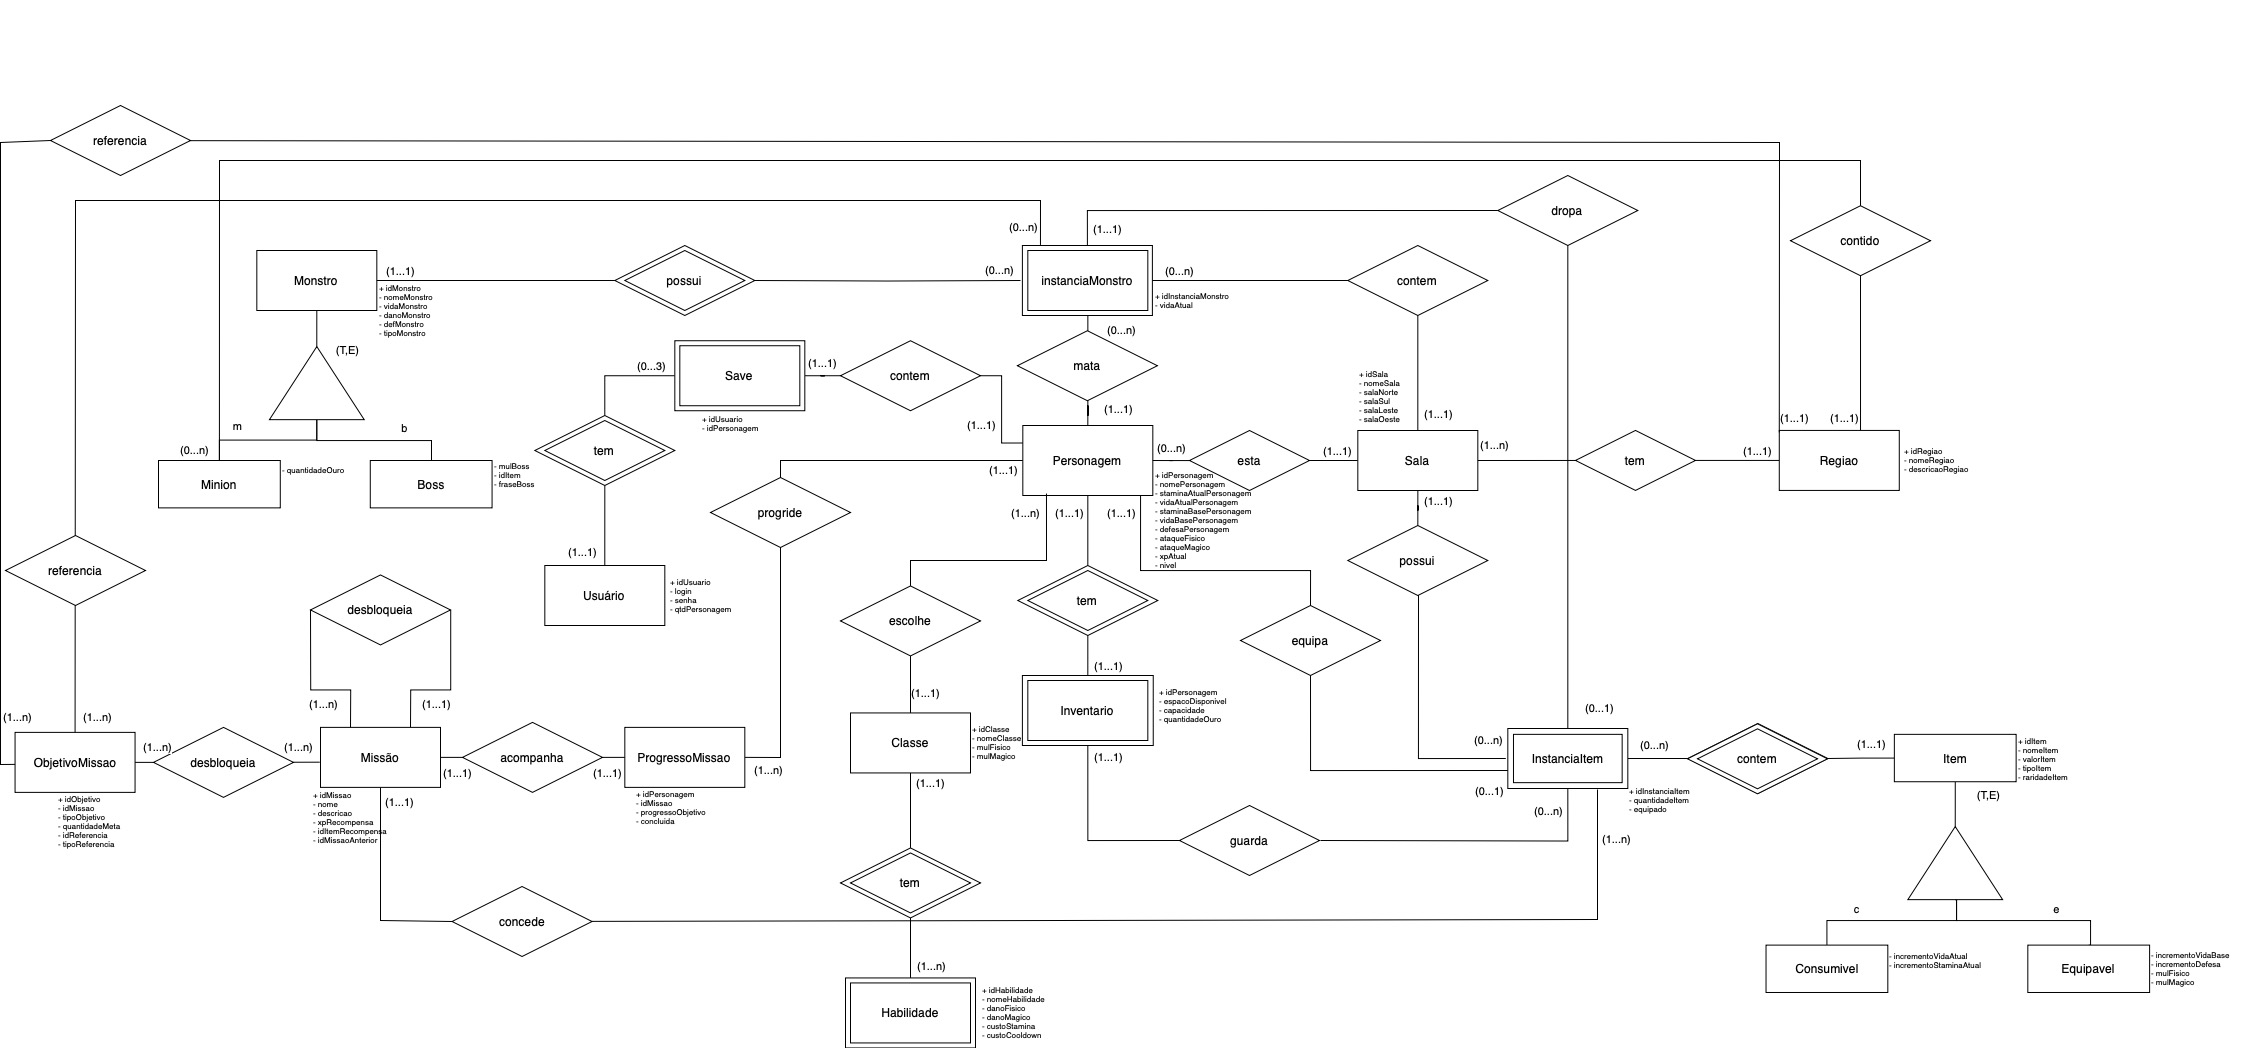
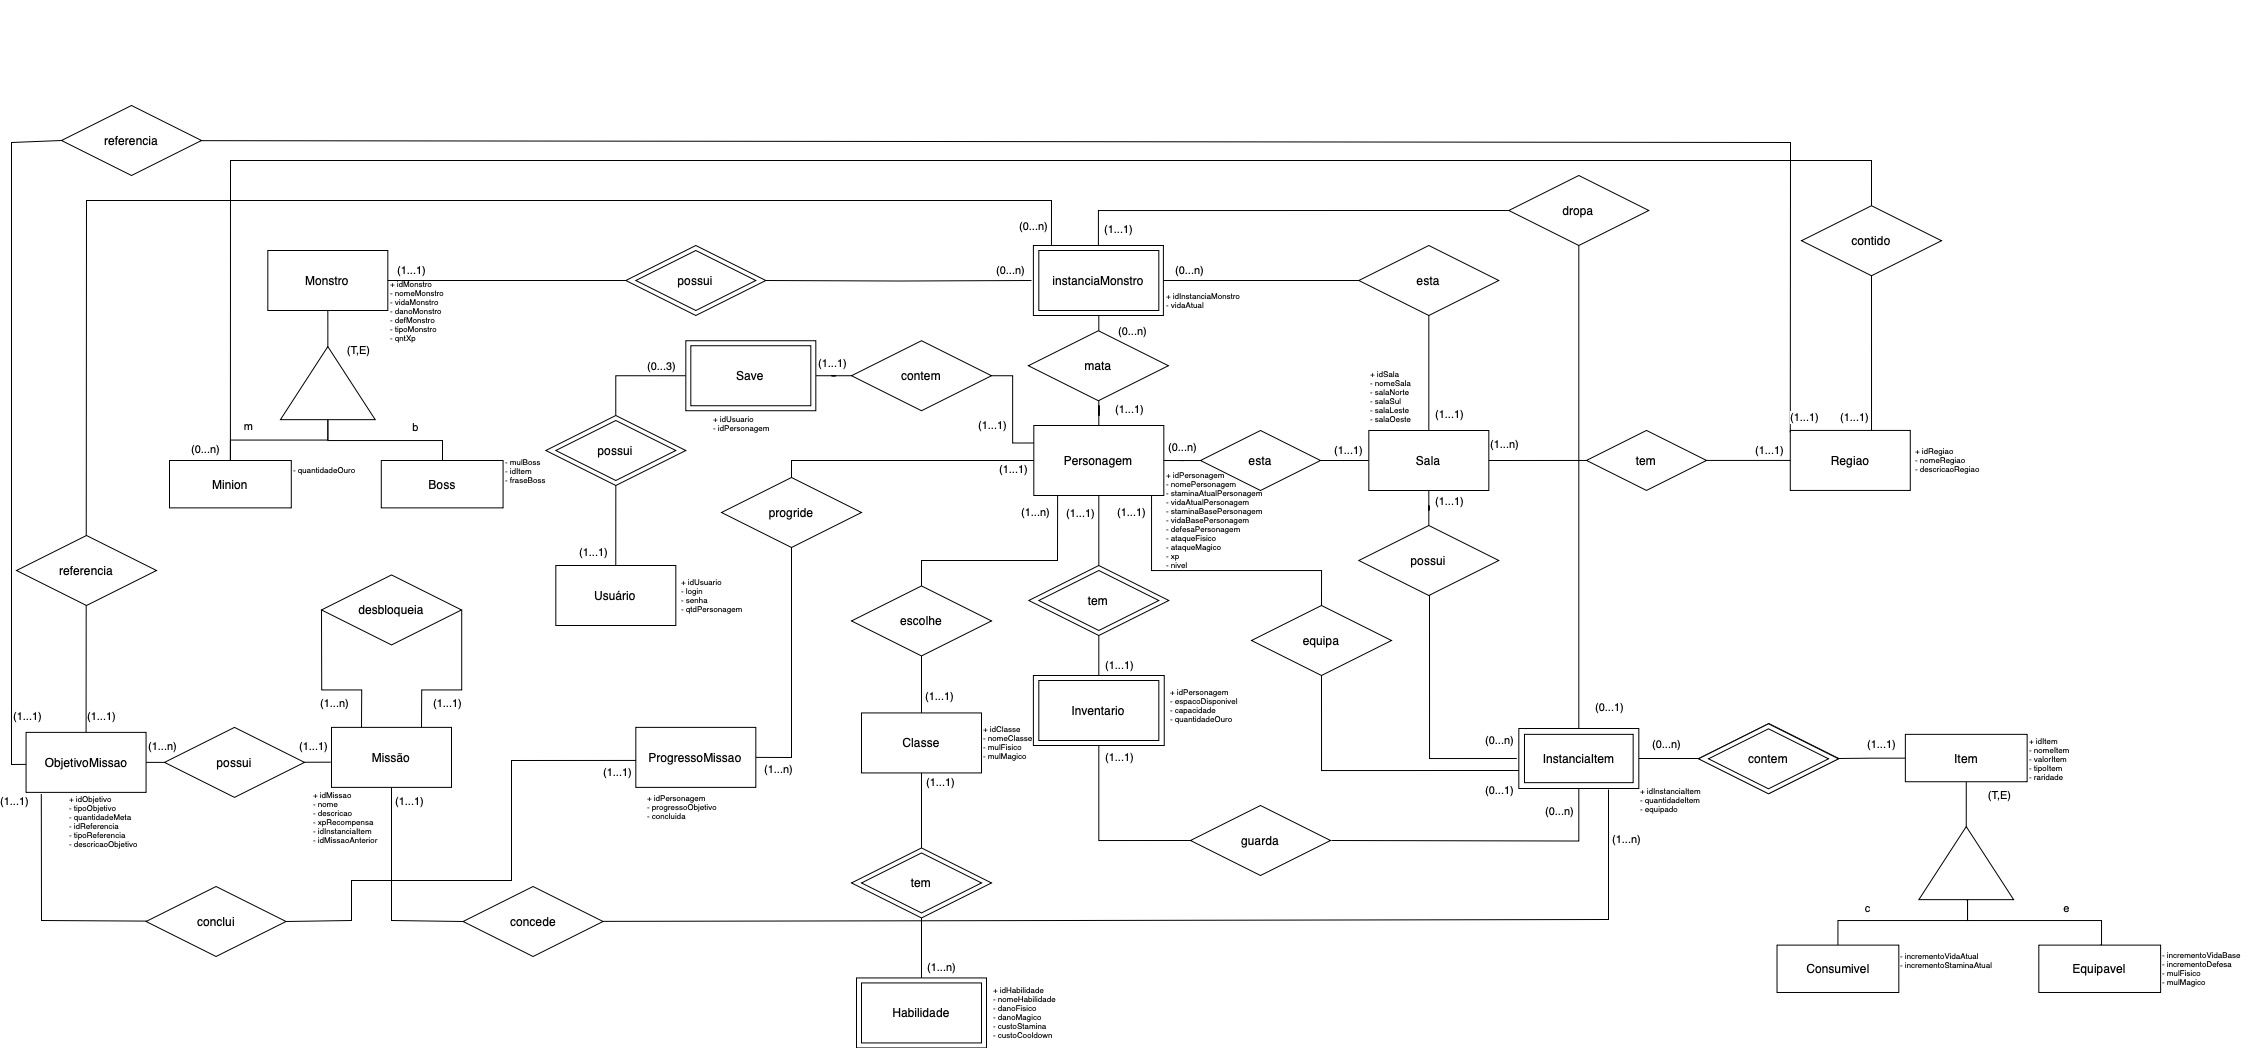
Agora sim

diff --git a/Modulo_3/ME-R(Modelo_Entidade_Relacionamento)_v3.md b/Modulo_3/ME-R(Modelo_Entidade_Relacionamento)_v3.md
@@ -14,7 +14,7 @@
 * Inventario
 * ItemPersonagem
 * Sala
-* ItemSala
+* Regiao
 * Item
 * Consumivel
 * Equipavel
@@ -24,25 +24,25 @@
 
 ## Atributos
 
-- **Usuario:** idUsuario, login, senha, qtdPersonagem  
-- **Monstro:** idMonstro, tipoMonstro  
+- **Usuario:** idUsuario, login, senha, qtdPersonagem 
+- **Monstro:** idMonstro, nomeMonstro, vidaMonstro, danoMonstro, defMonstro, tipoMonstro, qntXp
 - **InstanciaMonstro:** idInstanciaMonstro, idMonstro, vidaAtual, idSala  
-- **Minion:** idMonstro, nomeMonstro, vidaMonstro, danoMonstro, defMonstro, quantidadeOuro  
-- **Boss:** idMonstro, nomeMonstro, vidaMonstro, danoMonstro, defMonstro, mulBoss, idItem  
+- **Minion:** idMonstro, nomeMonstro, vidaMonstro, danoMonstro, defMonstro, quantidadeOuro, qntXp  
+- **Boss:** idMonstro, nomeMonstro, vidaMonstro, danoMonstro, defMonstro, mulBoss, idItem, fraseBoss, qntXp  
 - **Save:** idUsuario, idPersonagem  
 - **Classe:** idClasse, nomeClasse, mulFisico, mulMagico  
-- **Personagem:** idPersonagem, nomePersonagem, staminaAtualPersonagem, vidaAtualPersonagem, staminaBasePersonagem, vidaBasePersonagem, defensePersonagem, ataqueFisico, ataqueMagico, idSala, xp, nivel  
+- **Personagem:** idPersonagem, nomePersonagem, staminaAtualPersonagem, vidaAtualPersonagem, staminaBasePersonagem, vidaBasePersonagem, defensePersonagem, ataqueFisico, ataqueMagico, idSala, xp, nivel, idClasse  
 - **Habilidade:** idHabilidade, nomeHabilidade, danoFisico, danoMagico, custoStamina, custoCooldown, idClasse  
-- **Inventario:** idInventario, espacoDisponivel, capacidade, quantidadeOuro, idPersonagem  
-- **ItemPersonagem:** idItem, idItemPersonagem, idInventario, quantidadeItem  
-- **Sala:** idSala, nomeSala, salaNorte, salaSul, salaLeste, salaOeste  
-- **ItemSala:** idItem, idItemSala, idSala, quantidadeItem  
-- **Item:** idItem, tipoItem, raridade  
-- **Consumivel:** idItem, nomeItem, valorItem, incrementoVidaAtual, incrementoStaminaAtual  
-- **Equipavel:** idItem, nomeItem, valorItem, incrementoVidaBase, incrementoDefesa, mulFisico, mulMagico, equipado ('s' ou 'n')  
-- **Missao:** idMissao, nomeMissao, descricao, idMissaoAnterior  
-- **ObjetivoMissao:** idObjetivo, descricaoObjetivo, tipoObjetivo, quantidadeRequerida, idMissao  
-- **ProgressoMissao:** idPersonagem, idMissao, idObjetivo, quantidadeAtual, status  
+- **Inventario:** idPersonagem, espacoDisponivel, capacidade, quantidadeOuro
+- **IntanciaItem:** idInstaciaItem, idItem, idItemSala, idPersonagem, quantidadeItem, equipado
+- **Sala:** idSala, nomeSala, salaNorte, salaSul, salaLeste, salaOeste, idRegiao
+- **Regiao:** idRegiao, nomeRegiao, descricaoRegiao
+- **Item:** idItem, nomeItem, valorItem, tipoItem, raridade  
+- **Consumivel:** idItem, nomeItem, valorItem, raridade, incrementoVidaAtual, incrementoStaminaAtual  
+- **Equipavel:** idItem, nomeItem, valorItem, raridade,  incrementoVidaBase, incrementoDefesa, mulFisico, mulMagico 
+- **Missao:** idMissao, nomeMissao, descricao, idMissaoAnterior, xpRecompensa, idInstaciaItem  
+- **ObjetivoMissao:** idObjetivo, descricaoObjetivo, tipoObjetivo, quantidadeMeta, idMissao, idReferencia, tipoReferencia  
+- **ProgressoMissao:** idPersonagem, idObjetivo, progressoOjetivo, concluida  
 
 ## Relacionamentos
 
@@ -51,7 +51,7 @@
 - Um Save deve pertencer a um único Usuário.
 - Cardinalidade: (0:3) (1:1)   
 
-**Personagem corresponde ao save:**  
+**Save contem Personagem:**  
 - Um Personagem corresponde a um único Save.
 - Um Save corresponde a um único Personagem.
 - Cardinalidade: (1:1) (1:1)  
@@ -68,33 +68,28 @@
 
 **Personagem está em uma Sala:**  
 - Um Personagem deve estar em uma única Sala.
-- Uma Sala pode conter nenhum ou um Personagem.
-- Cardinalidade: (1:1) (0:1)  
+- Uma Sala pode conter nenhum ou varios Personagem.
+- Cardinalidade: (1:1) (0:n)  
 
-**Sala possui ItemSala:**  
-- Uma Sala pode ter nenhum ou vários ItemSala.
-- Um ItemSala deve estar em uma única Sala.
+**Sala possui InstaciaItem:**    
+- Uma Sala pode ter nenhum ou vários InstaciaItem.
+- Um InstaciaItem deve estar em uma única Sala.
 - Cardinalidade: (0:N) (1:1)  
 
-**ItemSala possui Item:**  
-- Um ItemSala deve possuir exatamente um Item.
-- Um Item pode estar em nenhum ou vários ItemSala.
+**InstaciaItem contem Item:**  
+- Um InstaciaItem deve possuir exatamente um Item.
+- Um Item pode estar em nenhum ou vários InstaciaItem.
 - Cardinalidade: (1:1) (0:N)  
 
-**Personagem possui Inventário:**  
+**Personagem tem Inventário:**  
 - Um Personagem tem um único Inventário.
 - Um Inventário pertence a um único Personagem.
 - Cardinalidade: (1:1) (1:1)  
 
-**Inventário guarda o ItemPersonagem:**  
-- Um Inventário pode ter nenhum ou vários ItemPersonagem.
-- Um ItemPersonagem deve estar em um único Inventário.
+**Inventário guarda InstaciaItem:**  
+- Um Inventário pode ter nenhum ou vários InstaciaItem.
+- Um InstaciaItem deve estar em um único Inventário.
 - Cardinalidade: (0:N) (1:1)  
-
-**ItemPersonagem possui Item:**  
-- Um ItemPersonagem deve possuir exatamente um Item.
-- Um Item pode conter nenhum ou vários ItemPersonagem.
-- Cardinalidade: (1:1) (0:N)  
 
 **Personagem mata InstanciaMonstro:**  
 - Um Personagem pode matar nenhum ou várias InstanciaMonstro.
@@ -106,9 +101,9 @@
 - Uma InstanciaMonstro deve pertencer a um único Monstro.
 - Cardinalidade: (0:N) (1:1)  
 
-**InstanciaMonstro cria ItemPersonagem:**  
-- Uma InstanciaMonstro pode criar nenhum ou um ItemPersonagem.
-- Um ItemPersonagem pode ser criado por nenhuma ou uma InstanciaMonstro.
+**InstanciaMonstro dropa InstaciaItem:**  
+- Uma InstanciaMonstro pode criar nenhum ou um InstaciaItem.
+- Um InstaciaItem criado por uma e so um InstanciaMonstro.
 - Cardinalidade: (0:1) (0:1)  
 
 **InstanciaMonstro está em uma Sala:**  
@@ -127,10 +122,50 @@
 - Um ObjetivoMissao pertence a uma única Missão.
 - Cardinalidade: (1:N) (1:1)  
 
-**Personagem tem ProgressoMissao:**  
+**Missão desbloqueia Missão:**
+- Uma Missão pode desbloquear uma ou várias Missões.
+- Uma Missão pode ser desbloqueada por uma única Missão.
+- Cardinalidade: (1:N) (1:1)
+
+**Missão concede InstanciaItem:**
+- Uma Missão pode conceder varias InstanciaItem.
+- Uma InstanciaItem pode ser concedida por uma Missão.
+- Cardinalidade: (1:N) (1:1)
+
+**ObjetivoMissao referencia InstanciaMonstro:**
+- Um ObjetivoMissao pode referenciar nenhuma ou varias InstanciaMonstro.
+- Um InstanciaMonstro pode ser referenciado por um ObjetivoMissao.
+- Cardinalidade: (0:n) (1:1)
+
+**ObjetivoMissao referencia Regiao:**
+- Um ObjetivoMissao pode referenciar uma Regiao.
+- Uma Regiao pode ser referenciada por um ObjetivoMissao.
+- Cardinalidade: (1:1) (1:1)
+
+**Regiao tem Salas:**
+- Uma Regiao pode ter várias Salas.
+- Uma Sala pertence a uma única Regiao.
+- Cardinalidade: (1:N) (1:1)
+
+**Minion esta em Regiao:**
+- Um Minion esta em uma Regiao.
+- Uma Regiao pode ter vários ou nenhum Minions.
+- Cardinalidade: (1:N) (1:N)
+
+**ObjetivoMissao conclui ProgressoMissao:**
+- Um ObjetivoMissao pode concluir um ProgressoMissao.
+- Um ProgressoMissao pode ser concluido por um ObjetivoMissao.
+- Cardinalidade: (1:1) (1:1)
+
+**Personagem progride ProgressoMissao:**  
 - Um Personagem pode ter progresso em várias Missões.
 - Um ProgressoMissao pertence a um único Personagem.
 - Cardinalidade: (0:N) (1:1)  
+
+**Personagem equipa InstanciaItem:**
+- Um Personagem pode equipar nenhum ou uma InstanciaItem.
+- Um InstanciaItem pode ser equipado por um Personagem.
+- Cardinalidade: (0:1) (1:1)
 
 ---
 

diff --git a/Modulo_3/DD(Dicinario_de_Dados)_v3.md b/Modulo_3/DD(Dicinario_de_Dados)_v3.md
@@ -161,6 +161,7 @@
 |  danoMonstro  |     int      |       Dano do monstro         |  NOT NULL |   -  |
 |  defMonstro  |     int      |       Defesa do monstro        |  NOT NULL |  -   |
 | tipoMonstro|     bool      |  Tipo do monstro (minion=0, boss=1) |  NOT NULL |   -  |
+| qntXP| int | Quantidade de Xp q o monstro da ao ser morto| NOT NULL| -|
 
 ---
 ### **InstanciaMonstro**
@@ -191,6 +192,7 @@
 |   idMonstro   |     int      |  Identificador único do monstro     |  NOT NULL |  FK   |
 |   idItem      |     int      | Identificador único do item dropado|  NOT NULL |   FK  |
 |   mulBoss    |    int    | Multiplicador de drop de item      |  NOT NULL |   -  |
+| fraseBoss| varchar[200] | Frase do boss ao ser derrotado | NOT NULL | - |
 
 ---
 
@@ -208,13 +210,14 @@
 
 ---
 
-### **MissaoPersonagem**
+### **ProgressoMissao**
 #### Descrição: Relaciona personagens com as missões que estão realizando.
 | Nome Variável |     Tipo     |                Descrição            | Restrição | Chave |
 | :-----------: | :----------: | :-------------------------------: | :-------: | :---: |
 | idPersonagem |     int      | Identificador do personagem       |  NOT NULL |   FK  |
-| idMissao     |     int      | Identificador da missão           |  NOT NULL |   FK  |
+| idObjetivoMissao     |     int      | Identificador do objetivo da missao           |  NOT NULL |   FK  |
 | concluida    |    bool     | Indica se a missão foi concluída  |  NOT NULL |   -   |
+| progressoOjetivo | int | Progresso do objetivo | NOT NULL | - |
 
 ---
 
@@ -227,6 +230,9 @@
 |   idMissao   |     int      | Identificador da missão         |  NOT NULL |   FK  |
 | descricaoObjetivo | varchar(200) | Descrição do objetivo   |  NOT NULL |   -   |
 | tipoObjetivo  | int | Tipo do objetivo (1=derrotar monstros, 2=alcançar região, 3=percorrer salas) |  NOT NULL |   -   |
+| quantidadeMeta | int | Quantidade a ser atingida | NOT NULL | - |
+| idReferencia | int | ID da entidade a ser referenciada (Monstro, Região, Sala) | NOT NULL | - |
+| tipoReferencia | int | Tipo da entidade referenciada (Monstro=1, Região=2, Sala=3) | NOT NULL | - |
 
 
 ## Histórico de Versões
